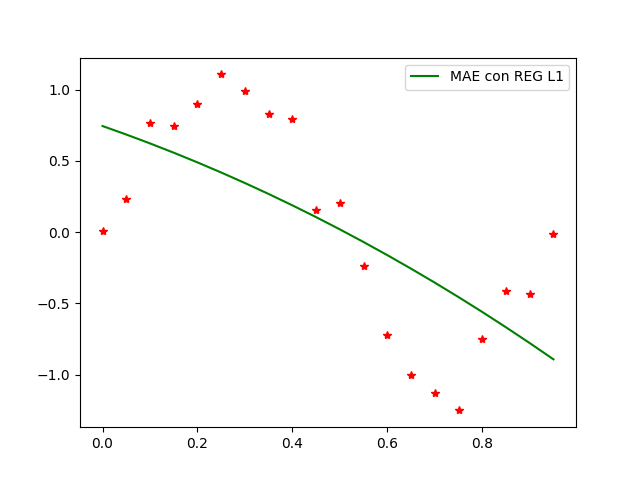
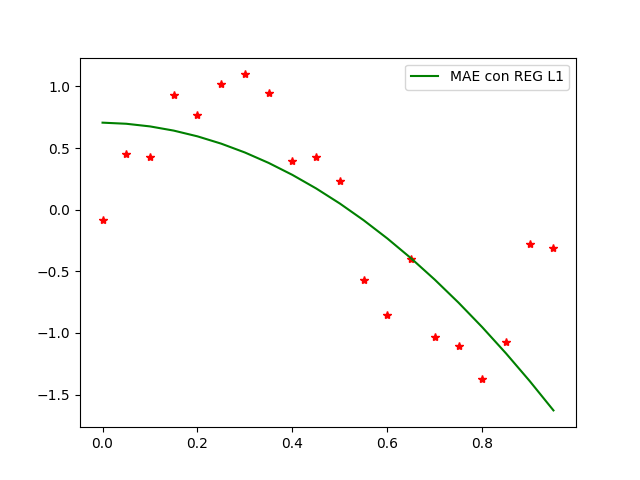
Testing con random numbers statics

diff --git a/main.py b/main.py
@@ -6,9 +6,11 @@ import numpy as np
 import matplotlib.pyplot as plt
 
 if __name__ == '__main__':
-    x_temp = np.arange(0, 1, 0.05)
-    y_temp = [np.sin(2 * i * np.pi) + np.random.normal(0, 0.2) for i in x_temp]
-
+    #x_temp = np.arange(0, 1, 0.05)
+    #y_temp = [np.sin(2 * i * np.pi) + np.random.normal(0, 0.2) for i in x_temp]
+    x_temp = [0.,   0.05, 0.1,  0.15, 0.2,  0.25, 0.3,  0.35, 0.4,  0.45, 0.5,  0.55, 0.6,  0.65,
+              0.7,  0.75, 0.8,  0.85, 0.9,  0.95]
+    y_temp = [-0.08689237658958435, 0.4548941435012709, 0.4312948104649044, 0.9309011151536833, 0.7717900271877763, 1.018389804588197, 1.0972791099536208, 0.9462734992156075, 0.3911055917305431, 0.4241021343207704, 0.2307095831027754, -0.5737502875585576, -0.8575154310342636, -0.39833869857922777, -1.0319552596206825, -1.10873846045265, -1.370575786122702, -1.0767381754270857, -0.27969167401880746, -0.313537625428634]
     x = np.array([x_temp])
     y = np.array([y_temp])
 
@@ -28,6 +30,7 @@ if __name__ == '__main__':
     MAE_y_l1, MAE_y_l2 = modelMAE.calcularY()
 
     plt.plot(x[0], y[0], "*", color="red")
+
     plt.plot(x[0], MSE_y_l1, color="blue", label="MSE sin REG")
     plt.legend()
     plt.savefig("MSE_sin_REG.png")
@@ -76,5 +79,6 @@ if __name__ == '__main__':
     plt.plot(x[0], MAE_y_l2, color="purple", label="MAE con REG L2")
     plt.legend()
     plt.savefig("MAE_con_REG_L2.png")
+
     plt.show()
     plt.close()
